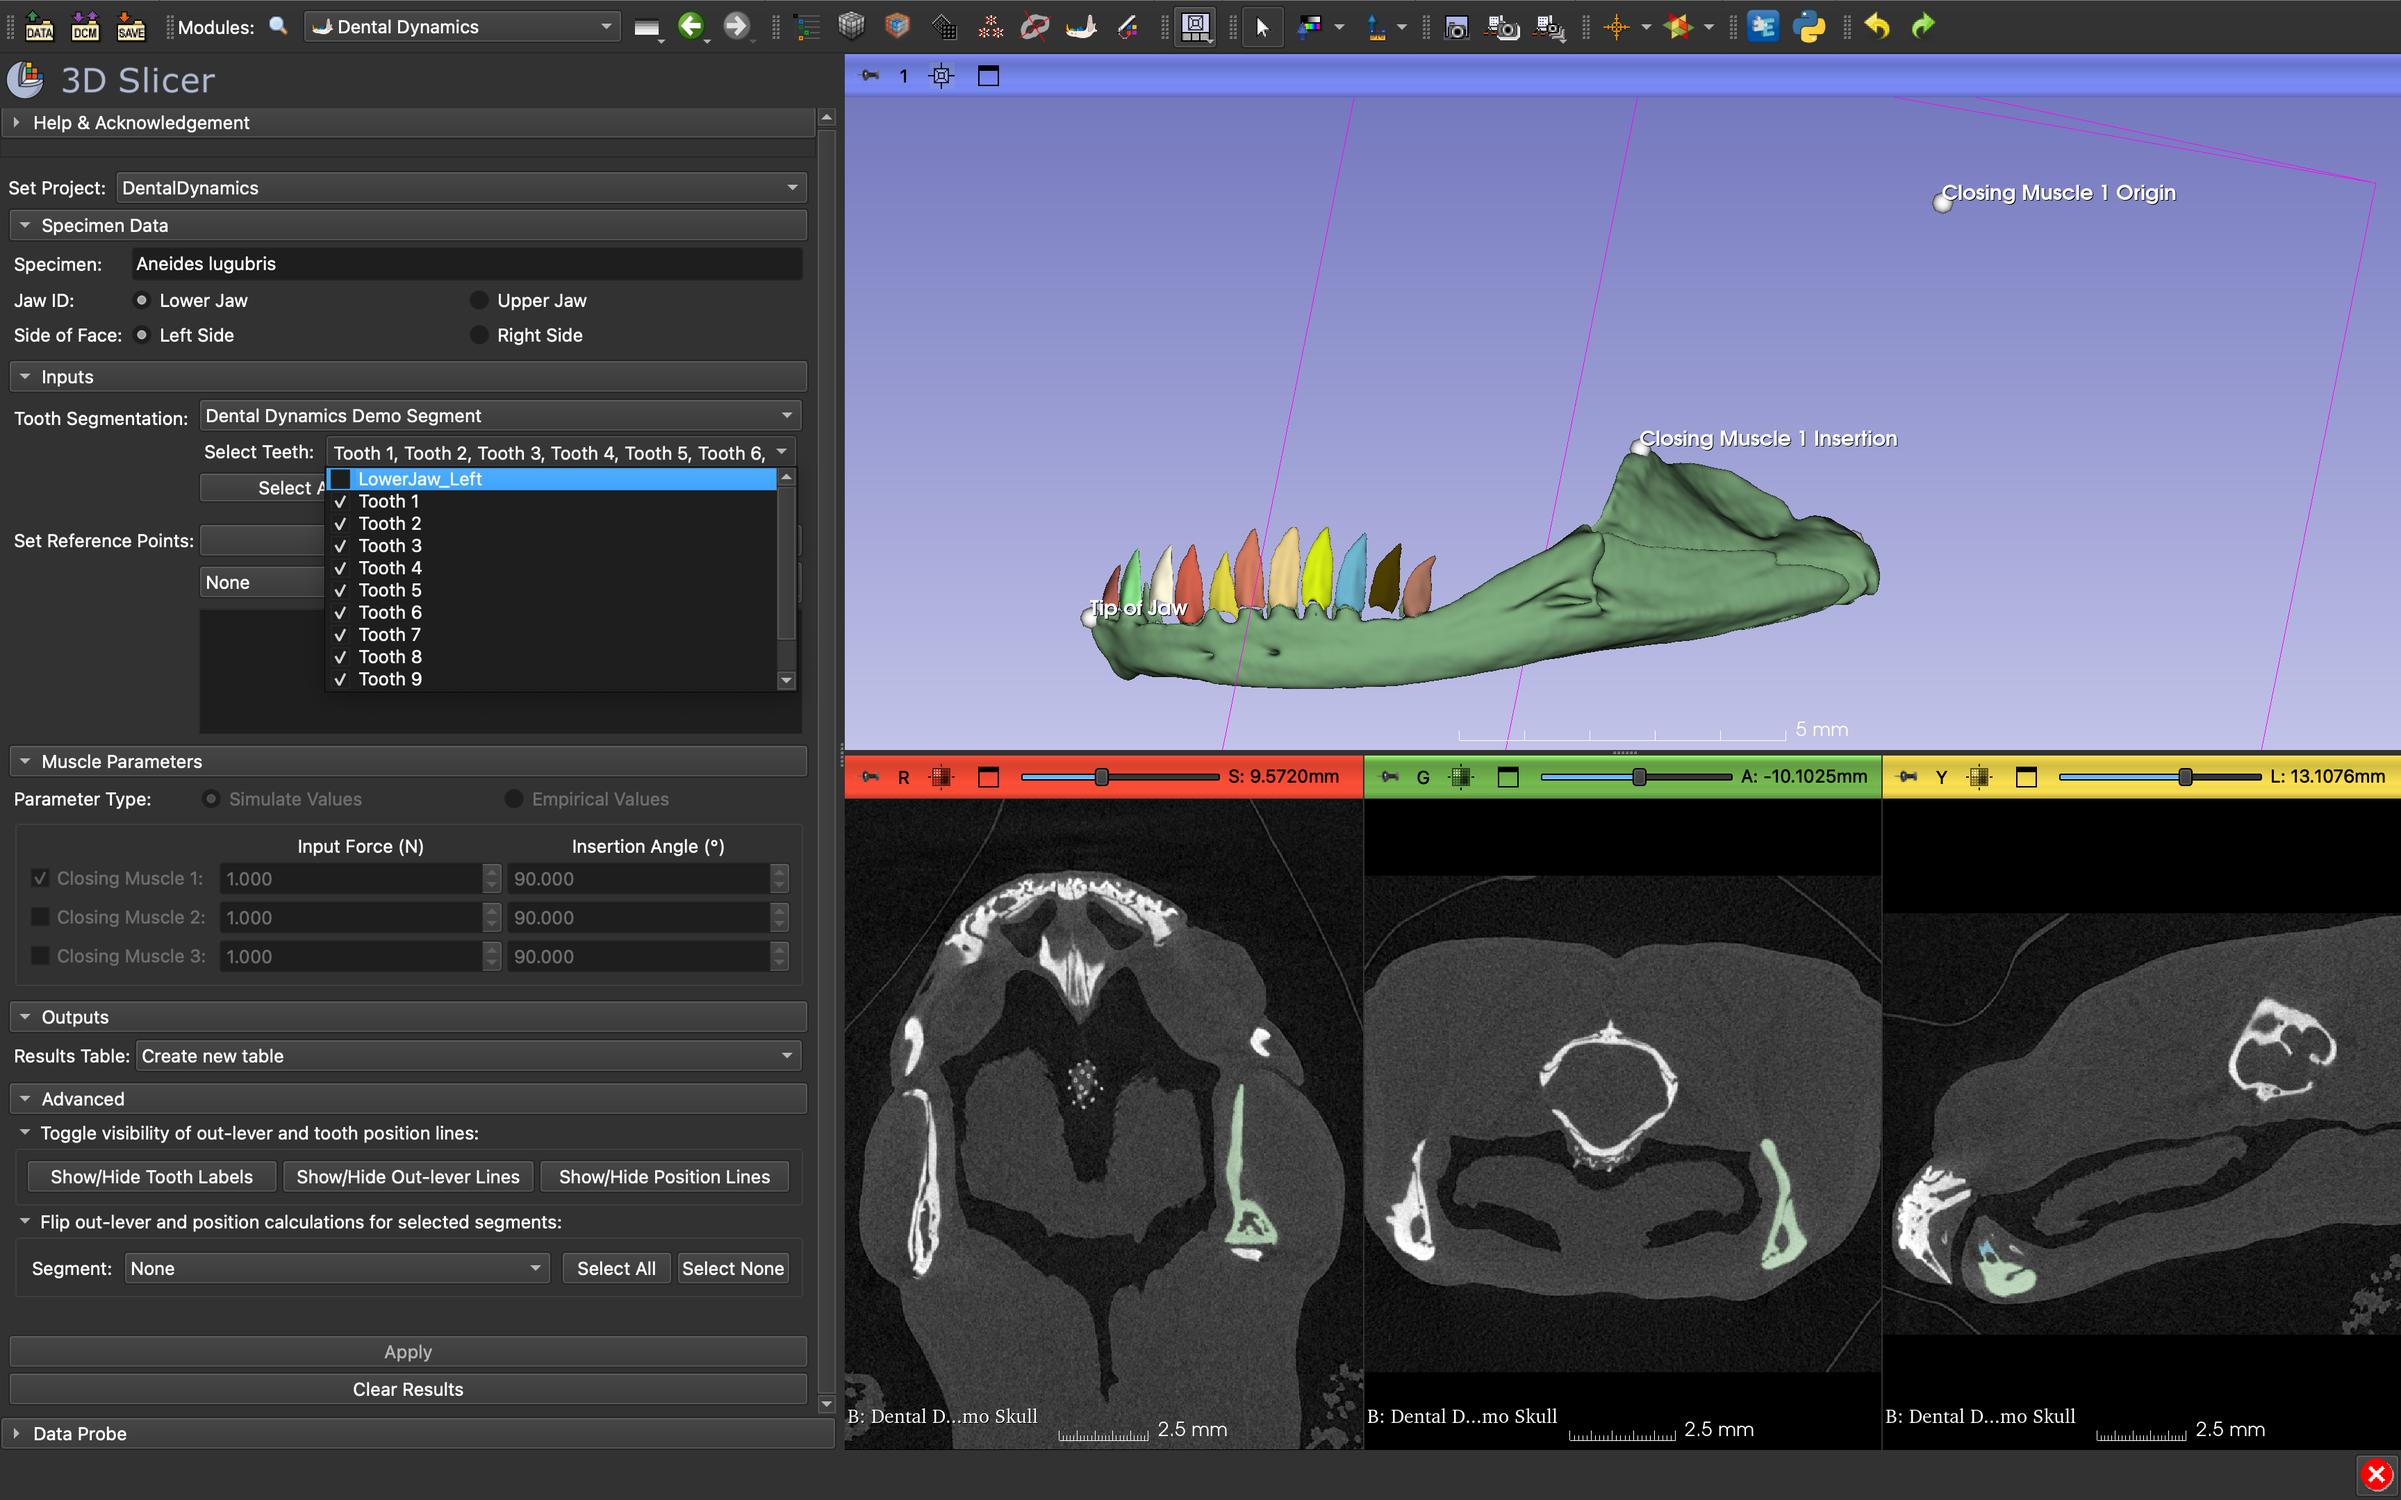
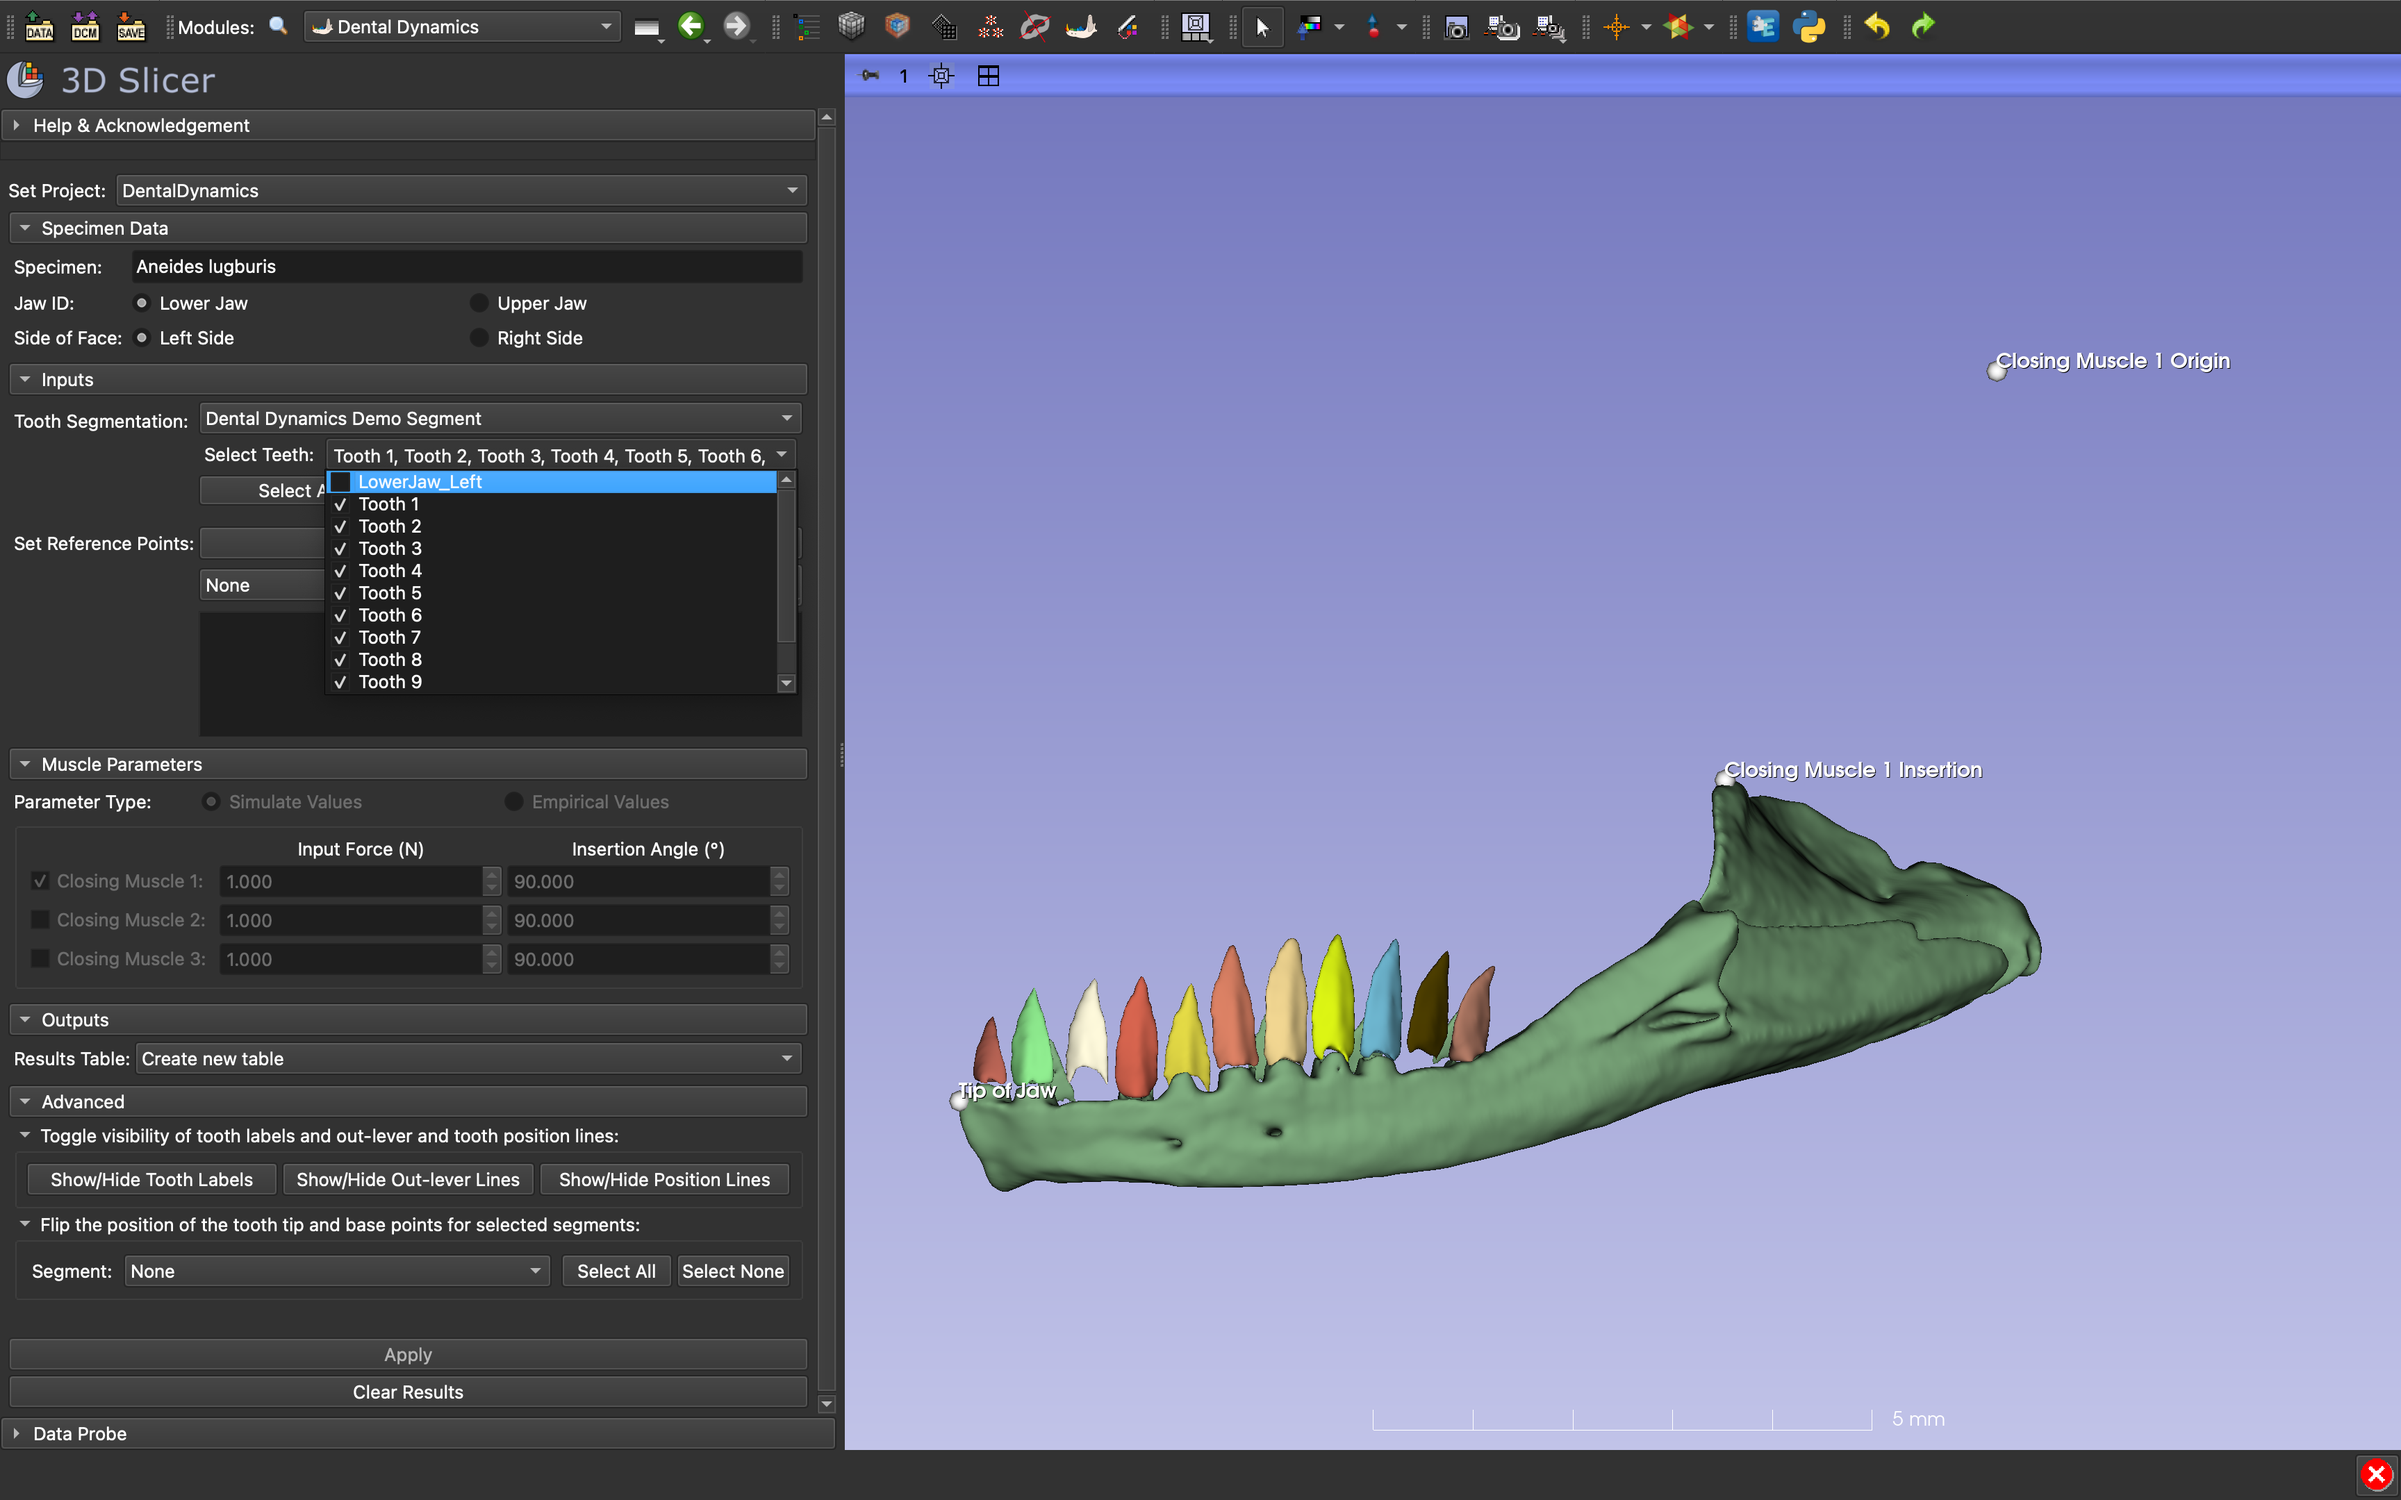
new tutorial

diff --git a/Tutorials/DentalDynamics/README.md b/Tutorials/DentalDynamics/README.md
@@ -2,9 +2,8 @@
 
 The `Dental Dynamics` module is used to model vertebrate jaw function and calculate several key jaw and tooth traits. 
 The module requires a segmentation file containing individually segmented teeth and user-defined anatomical landmarks (jaw joint, tip of the jaw, and the insertion and origin site of up to three jaw closing muscles). 
-These inputs are used to automatically calculate jaw length and muscle in-levers, and for each tooth its position along the jaw, height, width, aspect ratio, surface area, mechanical advantage, output force, and tooth stress.  
+These inputs are used to automatically calculate jaw length and muscle in-levers, and for each tooth its position along the jaw, height, width, aspect ratio, surface area, mechanical advantage, output force, and tooth stress. 
 `Dental Dynamics` can also take additional user inputs to estimate muscle parameters such as input force and insertion angle to provide more informed estimates of bite force.
-
 
 To use `Dental Dynamics`, first go to the `Sample Data` module and download the **Demo Skull**, **Demo Segment**, and the **Demo Jaw Points**. In this example, we will being using data from a CT scan of the arboreal 
 salamander (*Aneides lugubris*), originally obtained from MorphoSource.
@@ -21,7 +20,7 @@ Then find `Dental Dynamics` module under the SlicerBiomech module menu folder an
 
 4. Under **Set Reference Points** select the **Dental Dynamics Demo Jaw Points**. If you are using your own data for the first time, click the **Create new reference point list** to create a blank point list.
 
-5. The Jaw Joint, Tip of Jaw, Closing Muscle 1 Insertion, and Closing Muscle 1 Origin points are all predefined in the sample data. Clicking the label name of undefined points will activate point placement mode. To clear unwanted points, enter the position as 0,0,0 or right-click the point in the 3D view and select **Clear control point position**.
+5. The *Jaw Joint*, *Tip of Jaw*, *Closing Muscle 1 Insertion*, and *Closing Muscle 1 Origin* points are all predefined in the sample data. Clicking the label name of undefined points will activate point placement mode. To clear unwanted points, enter the position as 0,0,0 or right-click the point in the 3D view and select **Clear control point position**.
 
 6. Change the **Input Force** and **Insertion Angle** to simulate bite force with. Retaining the default values (1 and 90, respectively) will ensure tooth force calculations reflect variation in mechanical advantage. 
 
@@ -33,14 +32,19 @@ Then find `Dental Dynamics` module under the SlicerBiomech module menu folder an
 
 10. Click the **Apply** button to perform calculations. Upon completion of the analysis, a results table should have populated the scene and points should have been placed at the tip (red) and base (blue) of each selected tooth. 
 
-<img src="DentalDynamicsTut1.png">
+<img src="DentalDynamicsTut2.png">
 
-11. Visually inspect the points to ensure that `Dental Dynamics` has correctly identified the tip and base of each tooth. 
+11. Visually inspect the points to ensure that `Dental Dynamics` has correctly identified the tip and base of each tooth. Use **Show/Hide Out-lever lines** and **Show/Hide Position lines** to draw lines from the jaw joint to the tip and base of each tooth, respectively. If there is a mistake, see the Troubleshooting steps.
 
 12. Export results by switching to the `Data` module, right-clicking the results table an export as a .csv file. Alternatively, copy cells from the table and paste directly into a spreadsheet.
+
+13. To analyze a new jaw, navigate to **Set Project** at the top of `Dental Dynamics` and Create a new ScriptedModule. Creating new projects for each jaw is recommended when using different reference points and parameters for each jaw.
  
 
+## Troubleshooting
 
+Let's say `Dental Dynamics` has incorrectly identified the position of the tooth tip and base for some or all of the teeth on the jaw. If the points are slightly off, they can be manually adjusted and the results table will be updated by clicking the **Apply** button. 
+If the tip and base of some teeth are swapped entirely, use the **Show/Hide Tooth Labels** button to identify which teeth need the tip and base points flipped, and use the **Segment** selector to select which teeth are incorrect and click *Apply* again. If the tip and base points are flipped for all of the teeth, **Clear Results** and check the **Flip Calculations** check box.
 
 
 
